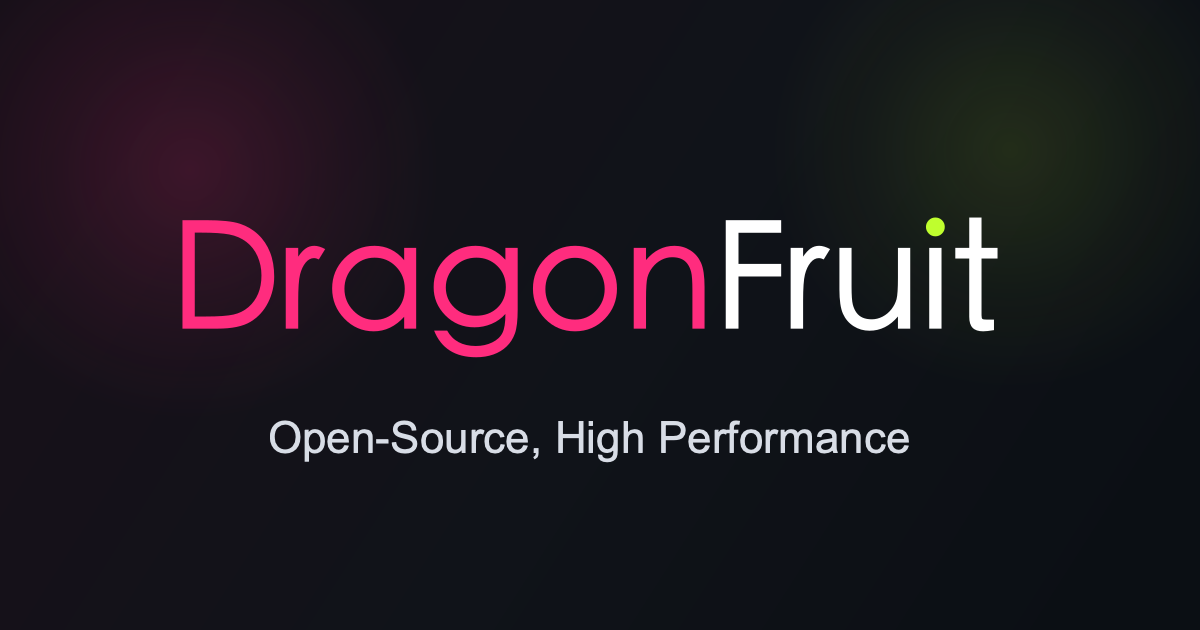
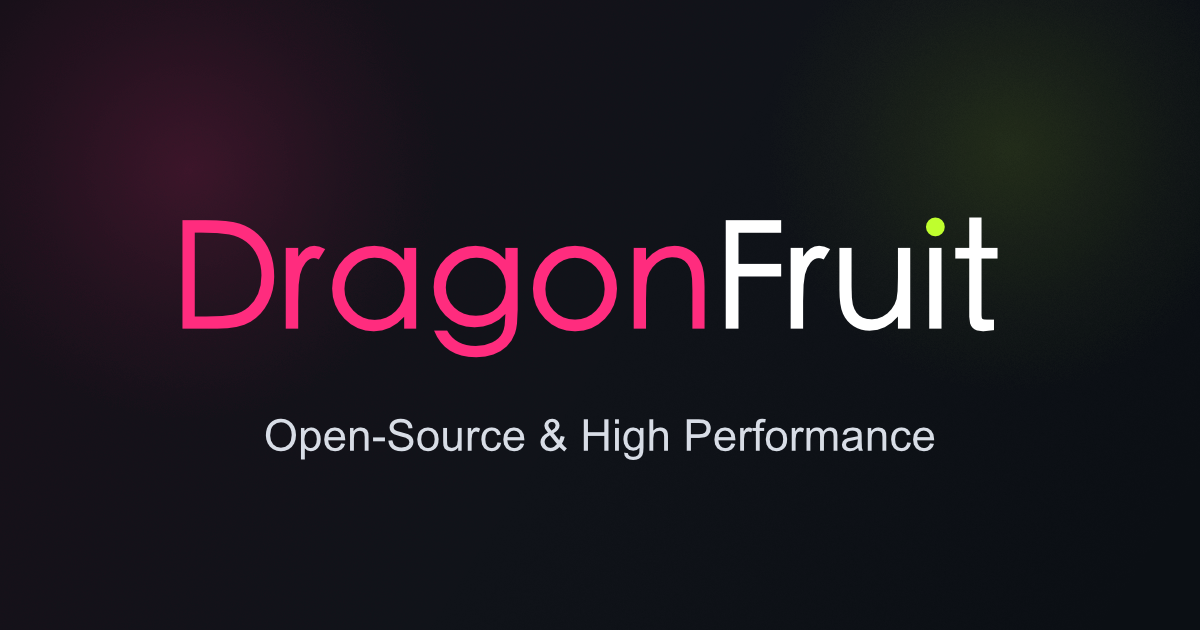
Update homepage assets and styles for improved dark mode support
- Updated social card images for branding.
- Modified homepage tagline to include an ampersand.
- Added script to set dark color scheme for homepage.
- Enhanced JavaScript to sync header height for responsive design.
- Adjusted CSS for dark mode styling and layout improvements.
- Removed redundant navigation entry for homepage in mkdocs configuration.

Changed region(s): [[0.2158, 0.6635, 0.8017, 0.754]]

diff --git a/docs/stylesheets/dragonfruit-theme.css b/docs/stylesheets/dragonfruit-theme.css
@@ -63,6 +63,10 @@
   color: var(--df-accent-primary-hover);
 }
 
+.md-content__inner {
+  padding-top: 0;
+}
+
 .df-homepage-page .md-search {
   display: none;
 }
@@ -82,6 +86,7 @@
   margin-bottom: 0;
   padding-top: 0;
   padding-bottom: 0;
+  min-height: 100%;
 }
 
 .df-homepage-page,
@@ -92,21 +97,46 @@
 
 .df-homepage-page {
   background: #0b0f14;
+  color-scheme: dark;
+  --md-primary-fg-color: var(--df-accent-primary);
+  --md-primary-fg-color--light: #f26ba2;
+  --md-primary-fg-color--dark: #c11f61;
+
+  --md-accent-fg-color: var(--df-accent-secondary-dark);
+  --md-accent-fg-color--transparent: color-mix(in srgb, var(--df-accent-secondary-dark), transparent 84%);
+
+  --md-default-bg-color: #0b0f14;
+  --md-default-fg-color: #e6ebf2;
+  --md-default-fg-color--light: #c3c7cf;
+  --md-default-fg-color--lighter: #a5acb8;
+  --md-default-fg-color--lightest: #7f8694;
+
+  --md-code-bg-color: #111216;
+  --md-typeset-a-color: var(--df-accent-primary);
 }
 
 .df-homepage-page .md-content__inner {
   width: 100%;
   max-width: none;
   margin: 0;
-  padding: 0;
+  padding: 0 !important;
 }
 
 .df-homepage-page .md-footer {
   display: none;
 }
 
+.md-grid {
+  max-width: 100%;
+}
+
+.md-sidebar--primary .md-nav[data-md-level='0'] > .md-nav__title {
+  display: none;
+}
+
 .df-homepage-page .md-content {
-  min-height: calc(100vh - 3.6rem);
+  height: calc(100dvh - var(--df-home-header-height, 3.6rem));
+  min-height: calc(100dvh - var(--df-home-header-height, 3.6rem));
 }
 
 .md-grid:has(.df-homepage) {
@@ -115,7 +145,8 @@
 
 .md-content__inner:has(.df-homepage) {
   position: relative;
-  min-height: calc(100vh - 3.6rem);
+  height: 100%;
+  min-height: 100%;
   display: grid;
   align-items: stretch;
   overflow: hidden;
@@ -147,10 +178,10 @@
   width: 100%;
   height: 100%;
   object-fit: cover;
-  object-position: center 42%;
+  object-position: center 50%;
   opacity: 1;
   filter: saturate(0.88) brightness(0.38) contrast(0.9) blur(0.75px);
-  transform: scale(1.32);
+  transform: scale(1.38);
 }
 
 .df-homepage {
@@ -163,7 +194,7 @@
   gap: 1.1rem;
   width: 100%;
   max-width: none;
-  min-height: calc(100vh - 3.6rem);
+  min-height: 100%;
   padding: 0;
   margin: 0;
   text-align: center;
@@ -287,15 +318,17 @@
 
 @media (max-width: 720px) {
   .df-homepage-page .md-content {
-    min-height: calc(100vh - 3.25rem);
+    height: calc(100dvh - var(--df-home-header-height, 3.25rem));
+    min-height: calc(100dvh - var(--df-home-header-height, 3.25rem));
   }
 
   .md-content__inner:has(.df-homepage) {
-    min-height: calc(100vh - 3.25rem);
+    height: 100%;
+    min-height: 100%;
   }
 
   .df-homepage {
-    min-height: calc(100vh - 3.25rem);
+    min-height: 100%;
     padding: 0;
   }
 

diff --git a/docs/javascripts/homepage-release-feed.js b/docs/javascripts/homepage-release-feed.js
@@ -125,6 +125,16 @@
             });
       }
 
+      function syncHomepageHeaderHeight() {
+            if (!document.body.classList.contains('df-homepage-page')) return;
+
+            const header = document.querySelector('.md-header');
+            if (!header) return;
+
+            const height = Math.round(header.getBoundingClientRect().height);
+            document.documentElement.style.setProperty('--df-home-header-height', `${height}px`);
+      }
+
       function renderDownloads(container, release, variant) {
             if (!container) return;
 
@@ -182,12 +192,30 @@
       }
 
       function initReleaseFeed() {
-            if (document.querySelector('.df-homepage')) {
-                  document.body.classList.add('df-homepage-page');
+            const isHomepage = Boolean(document.querySelector('.df-homepage'));
+
+            document.body.classList.toggle('df-homepage-page', isHomepage);
+
+            if (isHomepage) {
                   document.documentElement.setAttribute('data-md-color-scheme', 'slate');
+                  document.documentElement.style.colorScheme = 'dark';
+            } else {
+                  document.documentElement.style.removeProperty('--df-home-header-height');
+                  document.documentElement.style.colorScheme = '';
+                  return;
             }
 
             setHomepageHeaderTitle();
+            syncHomepageHeaderHeight();
+
+            const header = document.querySelector('.md-header');
+            if (header && 'ResizeObserver' in window) {
+                  const observer = new ResizeObserver(() => {
+                        syncHomepageHeaderHeight();
+                  });
+                  observer.observe(header);
+                  window.addEventListener('resize', syncHomepageHeaderHeight, { passive: true });
+            }
 
             const heroButton = document.querySelector('#download-now');
             const versionLine = document.querySelector('#latest-release-version');

diff --git a/docs/index.md b/docs/index.md
@@ -12,6 +12,12 @@ hide:
   - search
 ---
 
+<script>
+  document.documentElement.setAttribute('data-md-color-scheme', 'slate');
+  document.documentElement.style.colorScheme = 'dark';
+  document.body?.classList.add('df-homepage-page');
+</script>
+
 <div class="df-homepage" markdown>
 
 <div class="df-home-backdrop" aria-hidden="true">
@@ -28,7 +34,7 @@ hide:
 
 <img class="df-home-wordmark" src="assets/branding/text_logo.svg" alt="DragonFruit" />
 
-<p class="df-home-tagline">Open-Source, High Performance Slicer for mSLA 3D Printers</p>
+<p class="df-home-tagline">Open-Source & High Performance Slicer for mSLA 3D Printers</p>
 
 <div class="df-home-actions">
     <a class="md-button md-button--primary" id="download-now" href="https://github.com/Open-Resin-Alliance/DragonFruit/releases/latest">Download Beta</a>